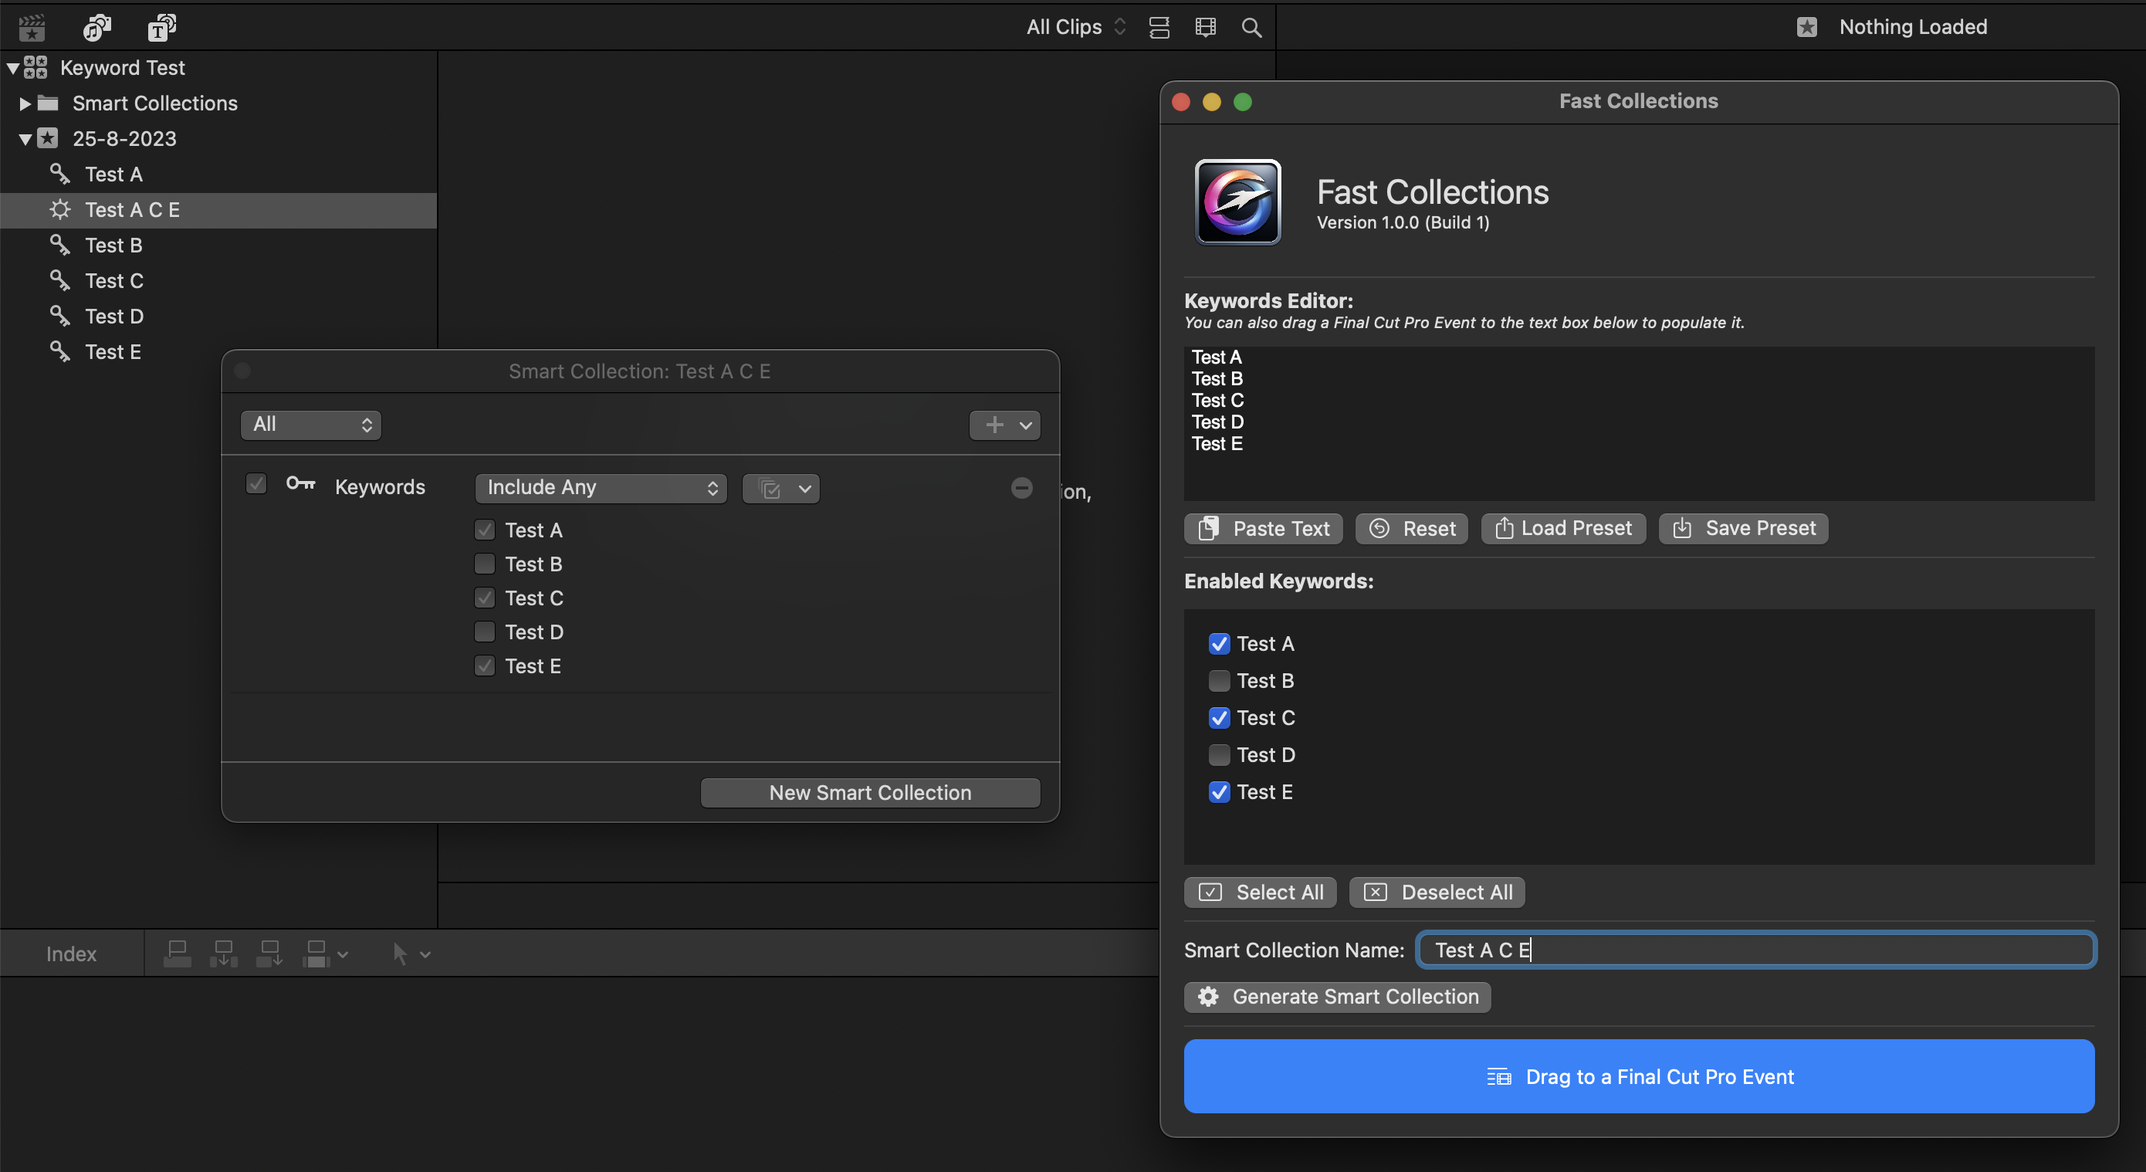
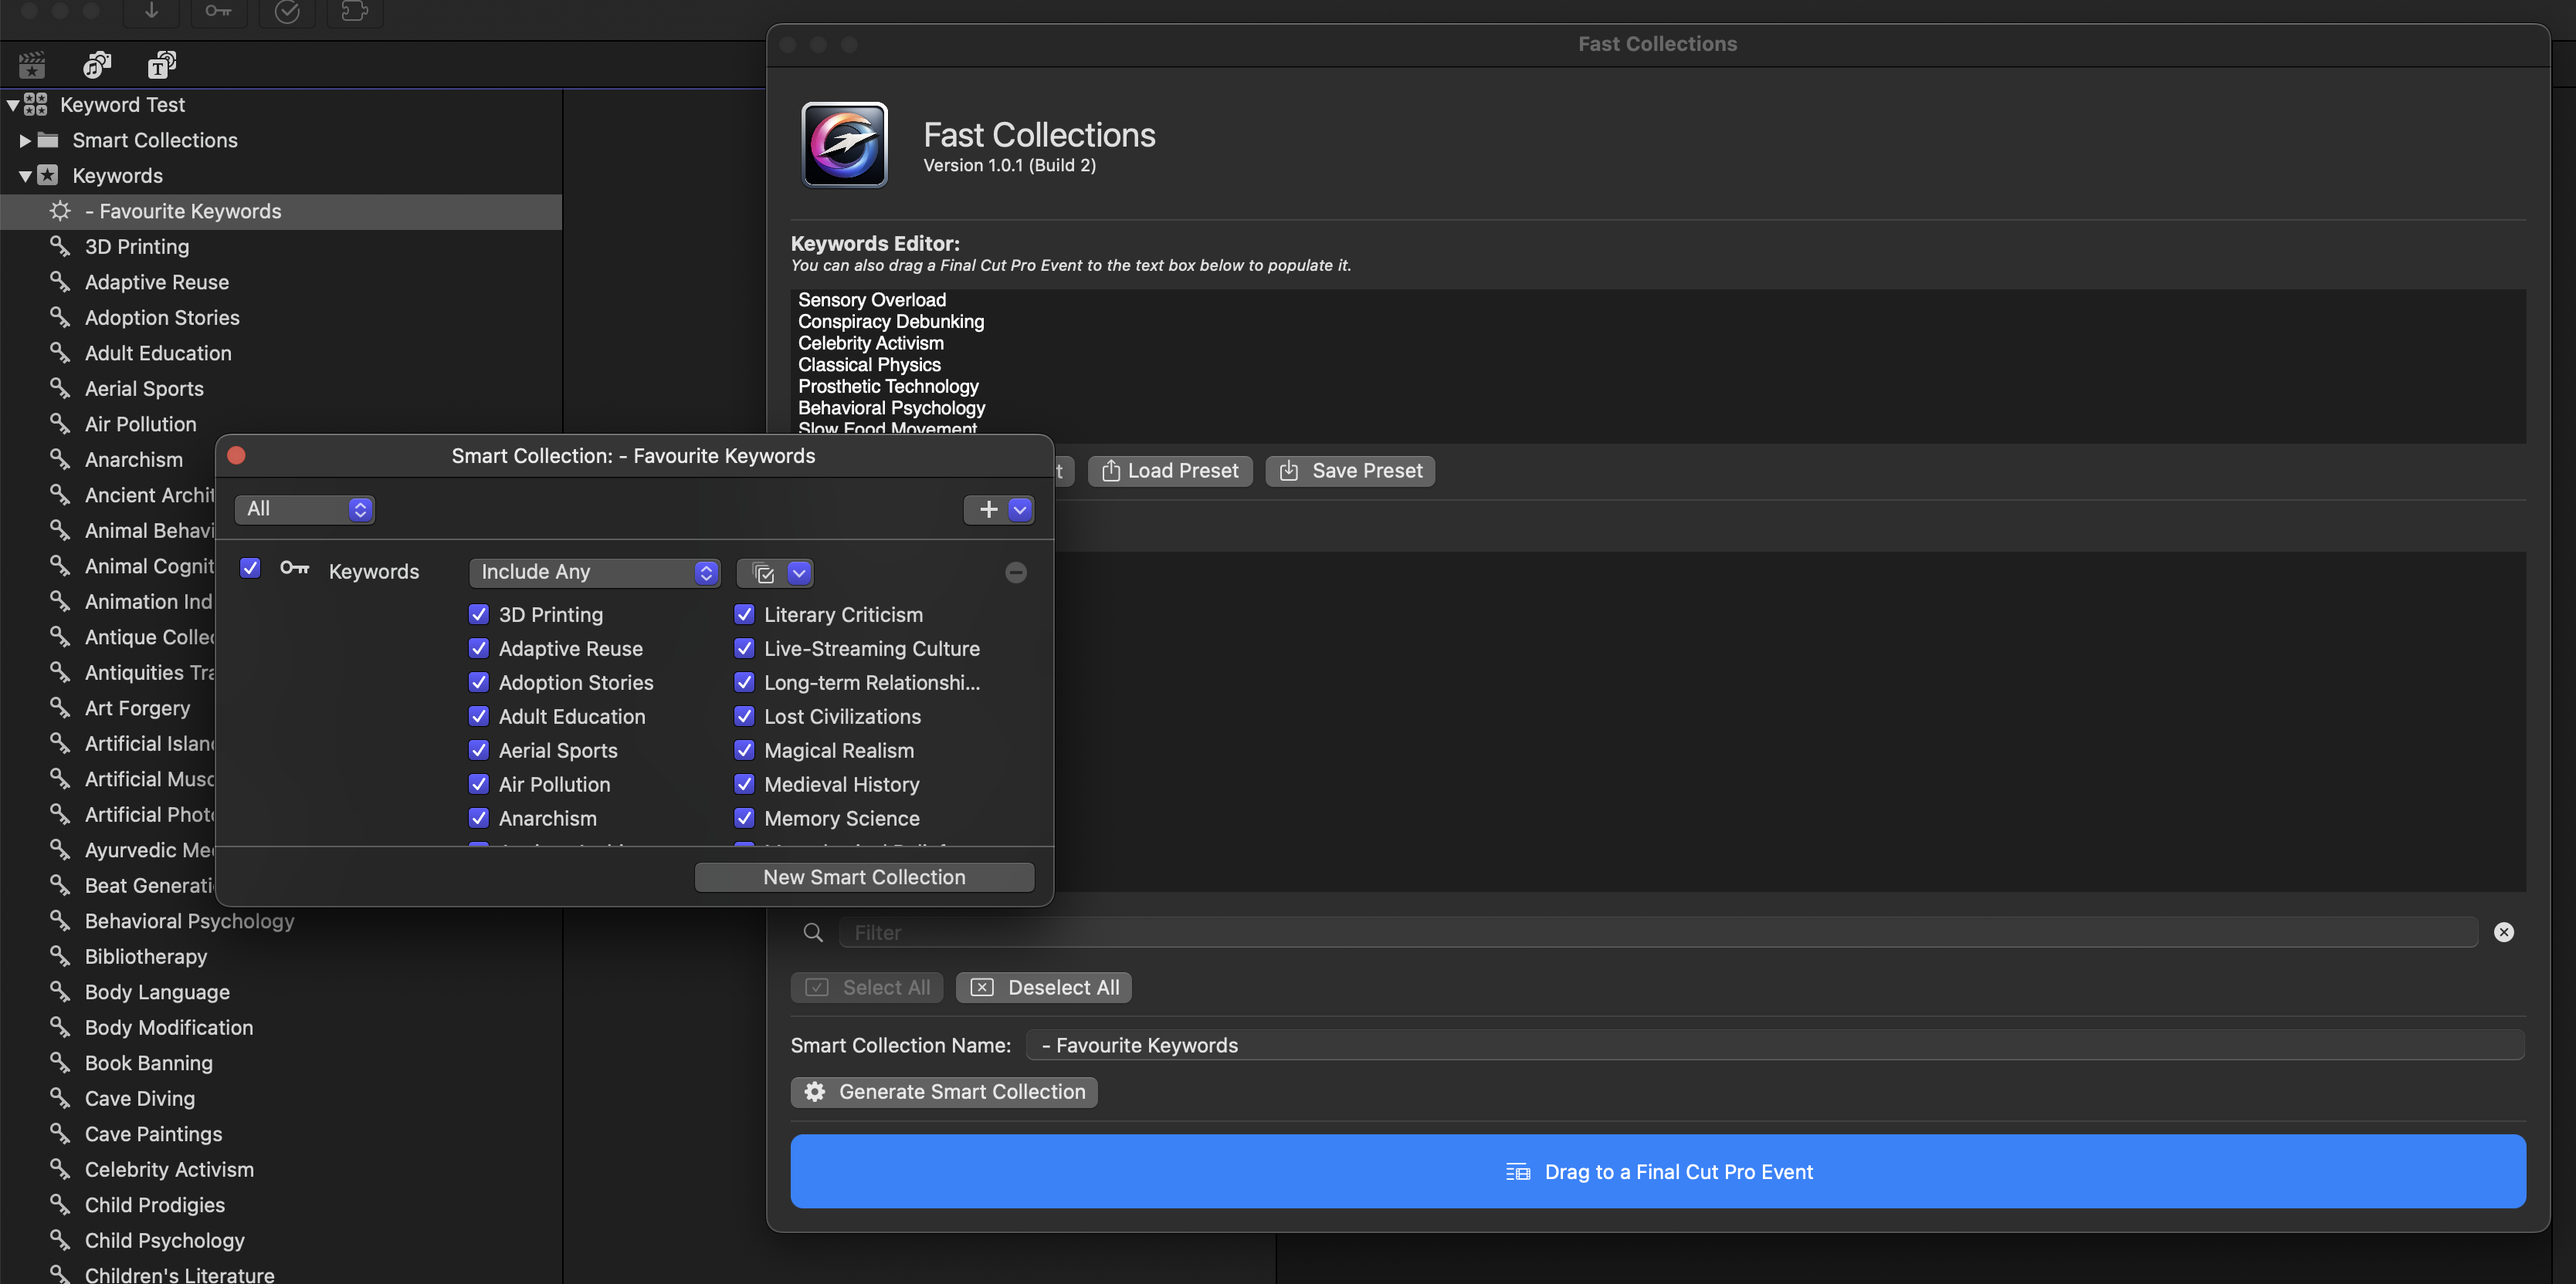
Preparing for 1.0.1 (2)

diff --git a/docs/how-to-use.md b/docs/how-to-use.md
@@ -1,6 +1,6 @@
 # How To Use
 
-When you run Fast Collections for the first time after download from the Mac App Store you'll be presented with this:
+When you run **Fast Collections** for the first time after downloading from the Mac App Store you'll be presented with this:
 
 ![](/static/wrapper-application.png)
 
@@ -20,24 +20,30 @@ When you open the Workflow Extension for the first time I will look like this:
 
 You can manually write a list of keywords, or use the **Paste** button to paste them from another application.
 
-Alternatively, you can also drag a **Final Cut Pro Event** from the Final Cut Pro Browser to the **Keywords Editor** text box, and all the keywords in that event will be populated.
+Alternatively, you can also drag a **Final Cut Pro Library** or **Event** from the **Final Cut Pro Browser** to the **Keywords Editor** text box, and all the keywords in that library or event will be populated.
 
 Each line in the **Keyword Editor** will automatically create a new keyword item in the **Enabled Keywords** list.
 
 You can then untick any keywords you don't want to store in the new Smart Collection.
 
-Type the name of your new Smart Collection, then press the **Generate Smart Collection** button.
+You can use the **Filter** text box to filter the list of checkboxes, and the **Select All** and **Deselect All** buttons to quickly help you refine your selections.
 
-![](/static/test-ace.png)
+![](/static/filter.png)
 
-Once done, you can drag the blue icon at the bottom into your Final Cut Pro Event.
+Once you're happy with your selections, type the name of your new Smart Collection, then press the **Generate Smart Collection** button.
+
+![](/static/smart-collection-name-highlighted.png)
+
+Once done, you can drag the blue icon at the bottom of the Workflow Extension into your **Final Cut Pro Library** or **Event**.
 
 ![](/static/drag-enabled.png)
 
-A new Smart Collection with the ticked keywords will now be created in the event.
+A new **Smart Collection** with the checked keywords will now be created in the event.
 
 ![](/static/smart-collection.png)
 
+If you make changes to the **Enabled Keywords** or the **Smart Collection Name** you will need to press the **Generate Smart Collection** button again.
+
 You can also use the **Load Preset** and **Save Preset** buttons to save your list of Keywords, for times when you're using recurring keywords.
 
-It's a very simple Workflow Extension, but can save a lot of time when working on really big libraries with lots of keywords.
+It's a very simple Workflow Extension, but can save a lot of time when working on really big libraries with **thousands of keywords**.

diff --git a/docs/README.md b/docs/README.md
@@ -2,9 +2,11 @@
 
 **Fast Collections** is a **Final Cut Pro Workflow Extension** that allows you to quickly create a Smart Collection from a list of Keywords.
 
-When you're working on massive long-form projects, such as documentaries with lots of footage and keywords, the Final Cut Pro interface can grind to a halt when using the Smart Collection panel.
+When you're working on massive long-form projects, such as documentaries with **hundreds of clips** and **thousands of keywords**, the Final Cut Pro interface can grind to a halt when using the built-in Smart Collection panel.
 
-This simple Workflow Extension allows you to create a new Smart Collection, using a list of supplied keywords very quickly.
+This simple Workflow Extension allows you to create a new **Smart Collection**, using a list of supplied keywords very quickly.
+
+If you have **thousands of keywords** across many events, it can take many minutes to create a new Smart Collection with your preferred keywords directly within Final Cut Pro - but with **Fast Collections**, it can now take seconds.
 
 > [:icon-desktop-download: **Click here to buy on the Mac App Store**](/buy/)
 

diff --git a/docs/release-notes.md b/docs/release-notes.md
@@ -1,8 +1,20 @@
 # Release Notes
 
+### 1.0.1 (2)
+
+**🎉 Released:**
+- Tuesday 29th August 2023
+
+**🔨 Improvements:**
+
+- Improved the performance of the interface when working with thousands of keywords.
+- Added a new **filter** text box.
+
+---
+
 ### 1.0.0 (1)
 
 **🎉 Released:**
-- COMING SOON!
+- Monday 28th August 2023
 
 This is the first release of Fast Collections. Woohoo!
